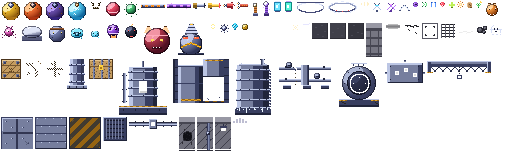
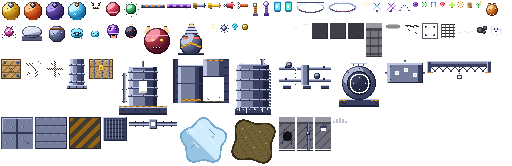
Pass 13 env polish: native-res ice/goo terrain patch textures (canvas-generated, cached), spawn plaza emblem with gate chevrons, plated terrace decks with edge hazard chips, goo bubbles + chest glints + glowing prop sparks

Changed region(s): [[0.0, 0.0, 1.0, 1.0], [0.5625, 0.1579, 0.5938, 0.1842]]

diff --git a/src/render/world.ts b/src/render/world.ts
@@ -13,7 +13,7 @@ import { WEAPONS } from '../game/data/weapons';
 import { BallRig } from './ballRig';
 import { METEOR_FALL_T, METEOR_RADIUS } from '../game/runEvents';
 import { SKINS } from '../game/data/unlocks';
-import { ZONES } from '../game/data/zones';
+import { ZONES, SPAWN_X, SPAWN_Y } from '../game/data/zones';
 import { BIOMES, type Biome } from '../game/data/biomes';
 import { ELITE_MODS } from '../game/data/eliteMods';
 import type { AttackKind } from '../game/events';
@@ -53,6 +53,8 @@ function skyTexture(b: Biome): Texture {
   return tex;
 }
 
+const GLOWING_PROPS = new Set(['sp_reactor', 'sp_generator', 'sp_hub']);
+
 let glowTex: Texture | null = null;
 function glowTexture(): Texture {
   if (glowTex) return glowTex;
@@ -69,6 +71,73 @@ function glowTexture(): Texture {
   g.fillRect(0, 0, s, s);
   glowTex = Texture.from(c);
   return glowTex;
+}
+
+// terrain patch textures generated at NATIVE patch size (stretching a small atlas
+// sprite to a 500px blob turns 2px art into mush). Cached per kind+radius.
+const patchTexCache = new Map<string, Texture>();
+function patchTexture(kind: 'ice' | 'goo', r: number): Texture {
+  const key = kind + ':' + r;
+  const hit = patchTexCache.get(key);
+  if (hit) return hit;
+  const P = 2; // pixel grid — chunky but crisp
+  const w = r * 2 + 8;
+  const h = Math.round(r * 2 * GROUND_TILT) + 8;
+  const c = document.createElement('canvas');
+  c.width = w;
+  c.height = h;
+  const g = c.getContext('2d')!;
+  const cx = w / 2;
+  const cy = h / 2;
+  const ice = kind === 'ice';
+  const body = ice ? '#a9d4ec' : '#77683c';
+  const mid = ice ? '#8fbcdc' : '#5c5030';
+  const deep = ice ? '#6f9fc4' : '#443a20';
+  const accent = ice ? '#eef8ff' : '#a89654';
+  const crack = ice ? '#5f93ba' : '#332b18';
+  for (let y = 0; y < h; y += P) {
+    for (let x = 0; x < w; x += P) {
+      const dx = x + P / 2 - cx;
+      const dy = (y + P / 2 - cy) / GROUND_TILT;
+      const d = Math.sqrt(dx * dx + dy * dy);
+      const ang = Math.atan2(dy, dx);
+      const wob = r * (1 + Math.sin(ang * (ice ? 5 : 4) + (ice ? 0 : 1.1)) * 0.055 + Math.sin(ang * 9 + 2) * 0.02);
+      if (d > wob) continue;
+      let col = body;
+      if (d > wob - r * 0.1) col = deep;
+      else if ((x * 7 + y * 13) % 29 < 9) col = mid;
+      g.fillStyle = col;
+      g.fillRect(x, y, P, P);
+    }
+  }
+  // ice: diagonal sheen streaks + stress cracks; goo: bright bubble clusters
+  const streaks = ice ? 6 : 3;
+  for (let i = 0; i < streaks; i++) {
+    const sx = 24 + ((i * 97) % (w - 60));
+    const sy = 18 + ((i * 53) % (h - 50));
+    const len = 10 + ((i * 31) % 16);
+    for (let k = 0; k < len; k++) {
+      g.fillStyle = accent;
+      g.fillRect(sx + k * P, sy + k * P - P, P, P);
+      if (!ice && k % 3 === 0) { g.fillStyle = body; g.fillRect(sx + k * P + P, sy + k * P, P, P); }
+    }
+  }
+  if (ice) {
+    for (let i = 0; i < 4; i++) {
+      let px = 30 + ((i * 71) % (w - 70));
+      let py = 26 + ((i * 37) % (h - 60));
+      for (let k = 0; k < 8; k++) {
+        g.fillStyle = crack;
+        g.fillRect(px, py, P, P);
+        px += P * (i % 2 === 0 ? 1 : 0);
+        py += P * (i % 2 === 0 ? 0 : 1);
+        if (k % 3 === 2) px += i % 2 === 0 ? -P : P;
+      }
+    }
+  }
+  const tex = Texture.from(c);
+  patchTexCache.set(key, tex);
+  return tex;
 }
 
 let fogTexCache: Texture | null = null;
@@ -158,6 +227,8 @@ export class WorldRenderer implements FxSink {
   private ventSpots: Array<{ x: number; y: number }> = [];
   private setPieceNames: string[] = [];
   private ventAcc = 0;
+  private gooSpots: Array<{ x: number; y: number; r: number }> = [];
+  private glintAcc = 0;
 
   private particles!: ParticleSys;
   private shards!: ParticleSys;
@@ -500,13 +571,7 @@ export class WorldRenderer implements FxSink {
     // movement-terrain decals
     const pg = this.layers.patches;
     pg.clear();
-    for (const p of w.patches) {
-      if (p.kind === 'slick') continue; // drawn as striped floor sprites at the hazard pads
-      const tint = p.kind === 'ice' ? 0xbfe8ff : 0x8a6a3a;
-      const alpha = p.kind === 'ice' ? 0.3 : 0.34;
-      pg.circle(p.x, p.y * GROUND_TILT, p.r).fill({ color: tint, alpha });
-      pg.circle(p.x, p.y * GROUND_TILT, p.r).stroke({ width: 2, color: tint, alpha: alpha + 0.2 });
-    }
+    // ice/goo draw as textured blob sprites after the env pass; slick is striped floor paint
     // boost pads: static base plate (chevrons scroll per-frame in ganim)
     for (const p of w.boostPads) {
       pg.rect(p.x, p.y * GROUND_TILT, p.w, p.h * GROUND_TILT).fill({ color: 0xffd23f, alpha: 0.14 });
@@ -531,7 +596,6 @@ export class WorldRenderer implements FxSink {
     this.layers.scenery.removeChildren();
     const glowSpots: Array<{ x: number; ry: number; tint: number; scale: number; alpha: number }> = [];
 
-    const GLOWING_PROPS = new Set(['sp_reactor', 'sp_generator', 'sp_hub']);
     const setPieceSpots: Array<{ x: number; y: number }> = [];
     this.setPieceNames.length = 0;
     for (const sp of w.setPieces) {
@@ -673,6 +737,41 @@ export class WorldRenderer implements FxSink {
         this.layers.scenery.addChild(s);
       }
     }
+    // terrain patches as native-res textured blobs (ice panes / goo pools) — 3/4 depth, not flat paint
+    this.gooSpots.length = 0;
+    for (const p of w.patches) {
+      if (p.kind === 'slick') continue;
+      const s = new Sprite(patchTexture(p.kind, p.r));
+      s.anchor.set(0.5);
+      s.position.set(Math.round(p.x), Math.round(p.y * GROUND_TILT));
+      s.alpha = 0.62;
+      this.layers.scenery.addChild(s);
+      if (p.kind === 'goo') this.gooSpots.push({ x: p.x, y: p.y, r: p.r });
+    }
+    // the spawn plaza gets an authored emblem — the arena's centerpiece
+    {
+      const ex = SPAWN_X;
+      const ey = SPAWN_Y * GROUND_TILT;
+      pg.circle(ex, ey, 84).stroke({ width: 4, color: 0xffd23f, alpha: 0.4 });
+      pg.circle(ex, ey, 84).stroke({ width: 12, color: 0x000000, alpha: 0.18 });
+      for (let a = 0; a < 8; a++) {
+        const rad = (a / 8) * Math.PI * 2 + Math.PI / 8;
+        const x1 = ex + Math.cos(rad) * 96;
+        const y1 = ey + Math.sin(rad) * 96 * GROUND_TILT;
+        pg.circle(x1, y1, 5).fill({ color: 0xffd23f, alpha: 0.5 });
+      }
+      // inner chevron cross pointing at the four gates
+      for (const [dx, dy] of [[1, 0], [-1, 0], [0, 1], [0, -1]] as const) {
+        const bx = ex + dx * 46;
+        const by = ey + dy * 46 * GROUND_TILT;
+        pg.moveTo(bx - dy * 12 - dx * 8, by - dx * 12 * GROUND_TILT - dy * 8 * GROUND_TILT);
+        pg.lineTo(bx + dx * 10, by + dy * 10 * GROUND_TILT);
+        pg.lineTo(bx + dy * 12 - dx * 8, by + dx * 12 * GROUND_TILT - dy * 8 * GROUND_TILT);
+        pg.stroke({ width: 4, color: 0xffd23f, alpha: 0.45 });
+      }
+      pg.circle(ex, ey, 14).fill({ color: 0xffd23f, alpha: 0.22 });
+    }
+
     // glow pools under bumpers, jump pads, shrines
     for (const b of w.bumpers) glowSpots.push({ x: b.x, ry: b.y * GROUND_TILT, tint: 0xff7a9a, scale: b.r * 3.4, alpha: 0.16 });
     for (const j of w.jumpPads) glowSpots.push({ x: j.x, ry: j.y * GROUND_TILT, tint: 0x57e389, scale: 78, alpha: 0.15 });
@@ -694,7 +793,7 @@ export class WorldRenderer implements FxSink {
     }
     this.glowBaseAlpha = this.glowSprites.map((s) => (s.visible ? s.alpha : 0));
 
-    // terraces: raised top face + south-facing skirt + accent edge
+    // terraces: raised top face + south-facing skirt + accent edge + plated deck
     const tg = this.layers.terraces;
     tg.clear();
     for (const t of w.terraces) {
@@ -709,6 +808,21 @@ export class WorldRenderer implements FxSink {
       tg.rect(x, y, 2, th).fill({ color: 0x9fb4d8, alpha: 0.3 });
       tg.rect(x + tw - 2, y, 2, th).fill({ color: 0x9fb4d8, alpha: 0.3 });
       tg.rect(x, y + th, tw, 2).fill({ color: 0x9fb4d8, alpha: 0.5 });
+      // plated deck: panel seams + bolt dots so the platform reads as built, not painted
+      for (let sx = x + 48; sx < x + tw - 24; sx += 64) {
+        tg.rect(sx, y + 4, 2, th - 8).fill({ color: 0x9fb4d8, alpha: 0.14 });
+      }
+      for (let sy = y + 44; sy < y + th - 20; sy += 72) {
+        tg.rect(x + 4, sy, tw - 8, 2).fill({ color: 0x9fb4d8, alpha: 0.14 });
+        for (let bx = x + 24; bx < x + tw - 16; bx += 96) {
+          tg.circle(bx, sy + 8, 2).fill({ color: 0x9fb4d8, alpha: 0.3 });
+          tg.circle(bx + 48, sy + 8, 2).fill({ color: 0x9fb4d8, alpha: 0.3 });
+        }
+      }
+      // hazard chips along the open south edge (fall risk)
+      for (let hx = x + 20; hx < x + tw - 20; hx += 56) {
+        tg.rect(hx, y + th + 2, 26, 3).fill({ color: 0xffd23f, alpha: 0.28 });
+      }
     }
 
     // obstacle sprites: assign texture + tint per run
@@ -1355,6 +1469,33 @@ export class WorldRenderer implements FxSink {
         if (!inView(v.x, v.y, 40)) continue;
         if (this.rng() < 0.35) {
           this.particles.spawn(v.x + (this.rng() - 0.5) * 12, v.y * GROUND_TILT, (this.rng() - 0.5) * 14, -36 - this.rng() * 28, 1.5, 1.2, 0x9aa8c8, -12, 0);
+        }
+      }
+    }
+    // goo pools burp bubbles — communicates the slow hazard
+    for (const g of this.gooSpots) {
+      if (!inView(g.x, g.y, 60)) continue;
+      if (this.rng() < 0.1) {
+        const a = this.rng() * Math.PI * 2;
+        const d = this.rng() * g.r * 0.7;
+        this.particles.spawn(g.x + Math.cos(a) * d, (g.y + Math.sin(a) * d) * GROUND_TILT, 0, -14 - this.rng() * 10, 0.9, 0.9, 0xa89050, -6, 0);
+      }
+    }
+    // treasure glints + reactor sparks: rarity and power get their own light language
+    this.glintAcc -= dt;
+    if (this.glintAcc <= 0) {
+      this.glintAcc = 0.4;
+      for (let i = 0; i < w.oCount; i++) {
+        if (w.otype[i] !== OBST_CHEST || !inView(w.ox[i], w.oy[i], 60)) continue;
+        if (this.rng() < 0.5) {
+          this.particles.spawn(w.ox[i] + (this.rng() - 0.5) * 16, (w.oy[i] - 10) * GROUND_TILT, 0, -8, 0.5, 0.8, 0xffe9a8, 0, 0);
+        }
+      }
+      for (const sp of w.setPieces) {
+        if (!GLOWING_PROPS.has(sp.name) || !inView(sp.x, sp.y, 80)) continue;
+        if (this.rng() < 0.45) {
+          const b = w.zoneAt(sp.x, sp.y).biome.accent;
+          this.particles.spawn(sp.x + (this.rng() - 0.5) * 26, (sp.y - 30 - this.rng() * 20) * GROUND_TILT, (this.rng() - 0.5) * 20, -20 - this.rng() * 30, 0.7, 0.9, b, 20, 0);
         }
       }
     }

diff --git a/tools/gen-atlas.ts b/tools/gen-atlas.ts
@@ -1178,6 +1178,51 @@ def('f_conduit', 48, 14, (p) => {
   for (const xx of [6, 14, 34, 42]) { p.set(xx, 4, GR_E); p.set(xx, 9, GR_E); }
 });
 
+// ---------- terrain patches (3/4 textured hazards; scale to patch radius) ----------
+
+/** ice pane: glazed floor with sheen streaks and stress cracks */
+def('terrain_ice', 48, 48, (p) => {
+  const body: RGB = [206, 236, 252], bodyD: RGB = [150, 196, 226], deep: RGB = [116, 168, 206], sheen: RGB = [245, 252, 255];
+  // rounded blob pane
+  for (let y = 0; y < 48; y++) for (let x = 0; x < 48; x++) {
+    const dx = x - 24, dy = y - 24;
+    const d = Math.sqrt(dx * dx + dy * dy) + Math.sin(Math.atan2(dy, dx) * 5) * 2.5;
+    if (d > 22) continue;
+    p.set(x, y, d > 20 ? deep : dx - dy < -6 ? bodyL2() : body);
+  }
+  function bodyL2() { return bodyD; }
+  // sheen streaks
+  for (const [x0, y0, len] of [[10, 12, 7], [20, 8, 5], [28, 20, 8], [14, 26, 6]] as const) {
+    for (let i = 0; i < len; i++) p.set(x0 + i, y0 + i - 1, sheen);
+  }
+  // stress cracks
+  const c: RGB = [96, 148, 186];
+  for (let i = 0; i < 6; i++) p.set(30 + i, 12 + i, c);
+  for (let i = 0; i < 4; i++) p.set(12 + i, 30 - i, c);
+  p.set(33, 19, c); p.set(34, 20, c);
+  // edge glints
+  p.set(8, 16, sheen); p.set(38, 30, sheen);
+});
+
+/** goo pool: murky slime with dripping edge and bright bubble spots */
+def('terrain_goo', 48, 48, (p) => {
+  const body: RGB = [110, 96, 52], bodyD: RGB = [70, 60, 30], deep: RGB = [48, 42, 22], hi: RGB = [168, 150, 84];
+  for (let y = 0; y < 48; y++) for (let x = 0; x < 48; x++) {
+    const dx = x - 24, dy = y - 24;
+    const d = Math.sqrt(dx * dx + dy * dy) + Math.sin(Math.atan2(dy, dx) * 4 + 1) * 3.5;
+    if (d > 22) continue;
+    p.set(x, y, d > 20 ? deep : (x * 7 + y * 3) % 23 === 0 ? bodyD : body);
+  }
+  // bright bubble spots (the per-frame bubbles rise from these)
+  for (const [bx, by] of [[16, 20], [30, 14], [24, 30], [36, 26]] as const) {
+    p.set(bx, by, hi); p.set(bx + 1, by, hi);
+  }
+  // surface sheen
+  for (const [x, y] of [[12, 12], [13, 11], [14, 11], [20, 9]] as const) p.set(x, y, hi);
+  // dripping tendril
+  p.set(38, 34, body); p.set(39, 36, bodyD); p.set(38, 38, bodyD); p.set(39, 40, deep);
+});
+
 // ---------- wall variants (16x34, same footprint as wall) ----------
 
 /** damaged wall segment: hole, rebar, scorch */
